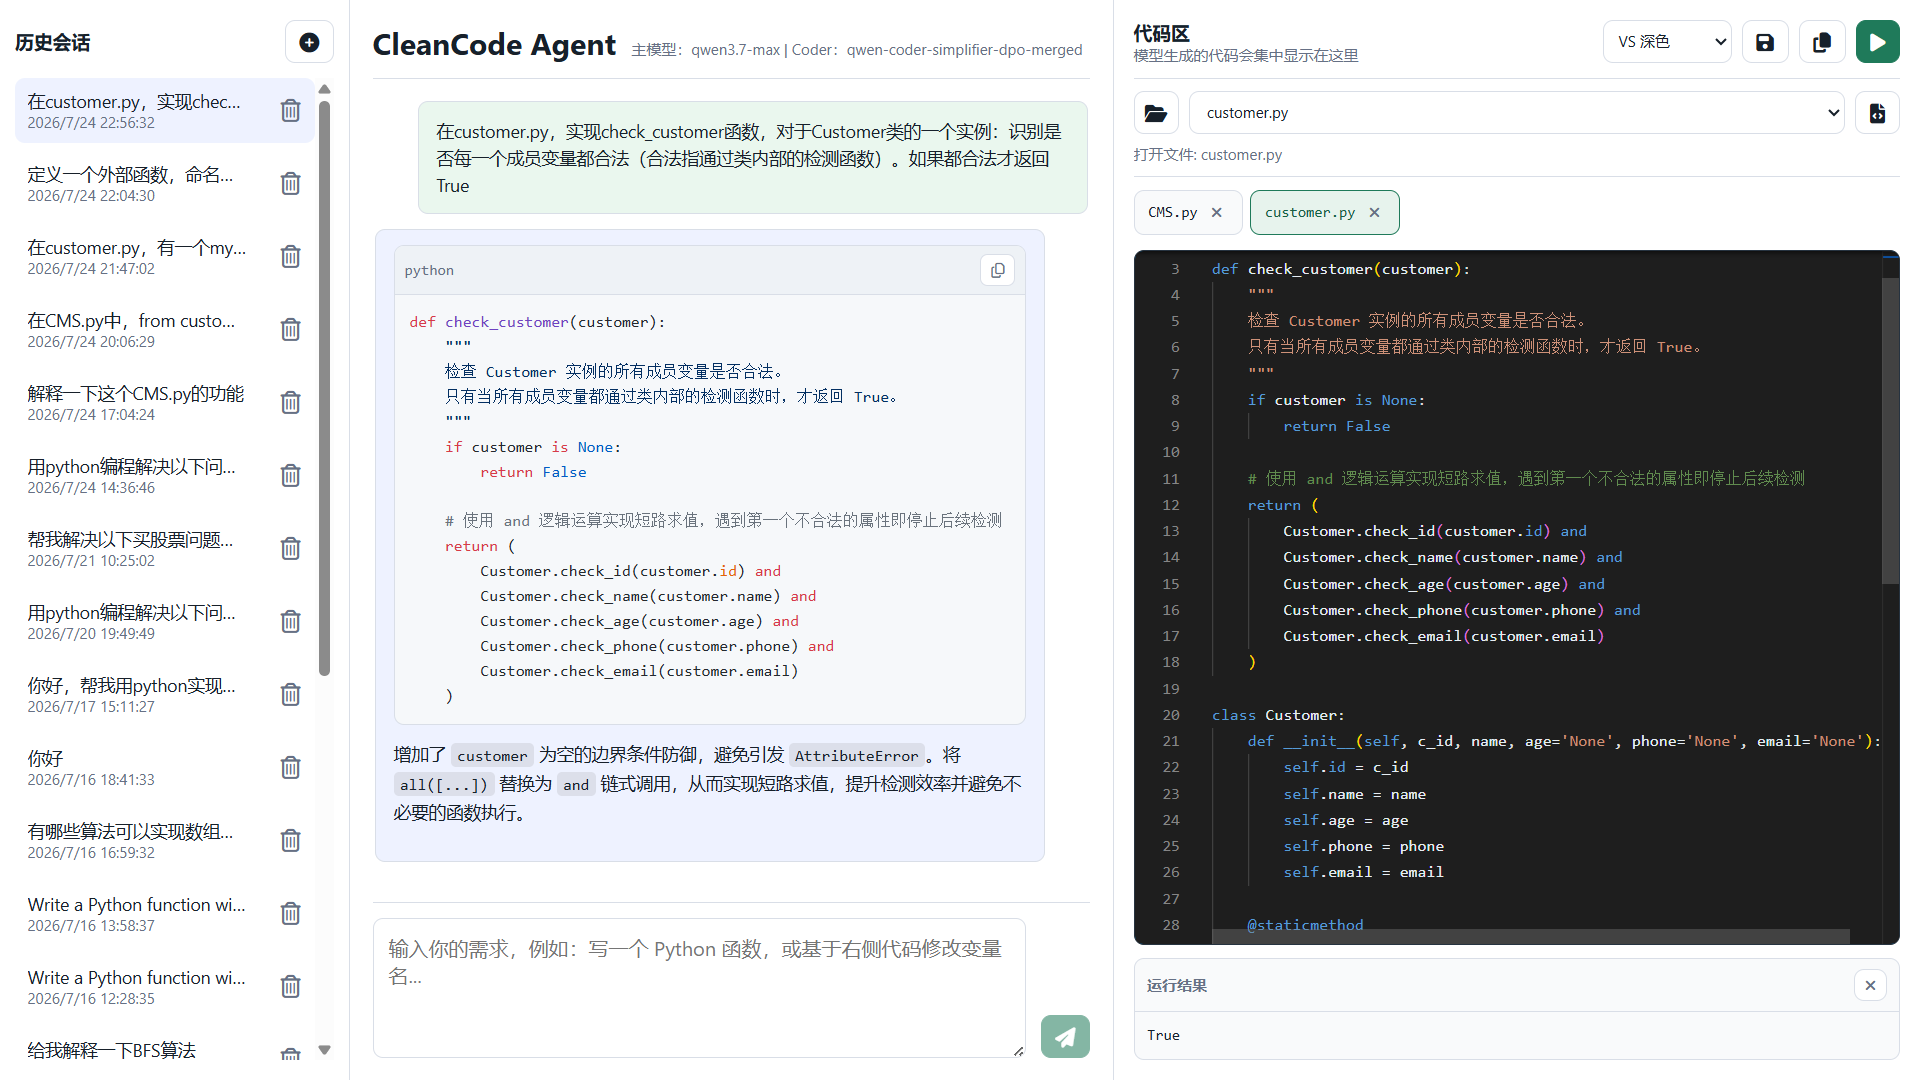
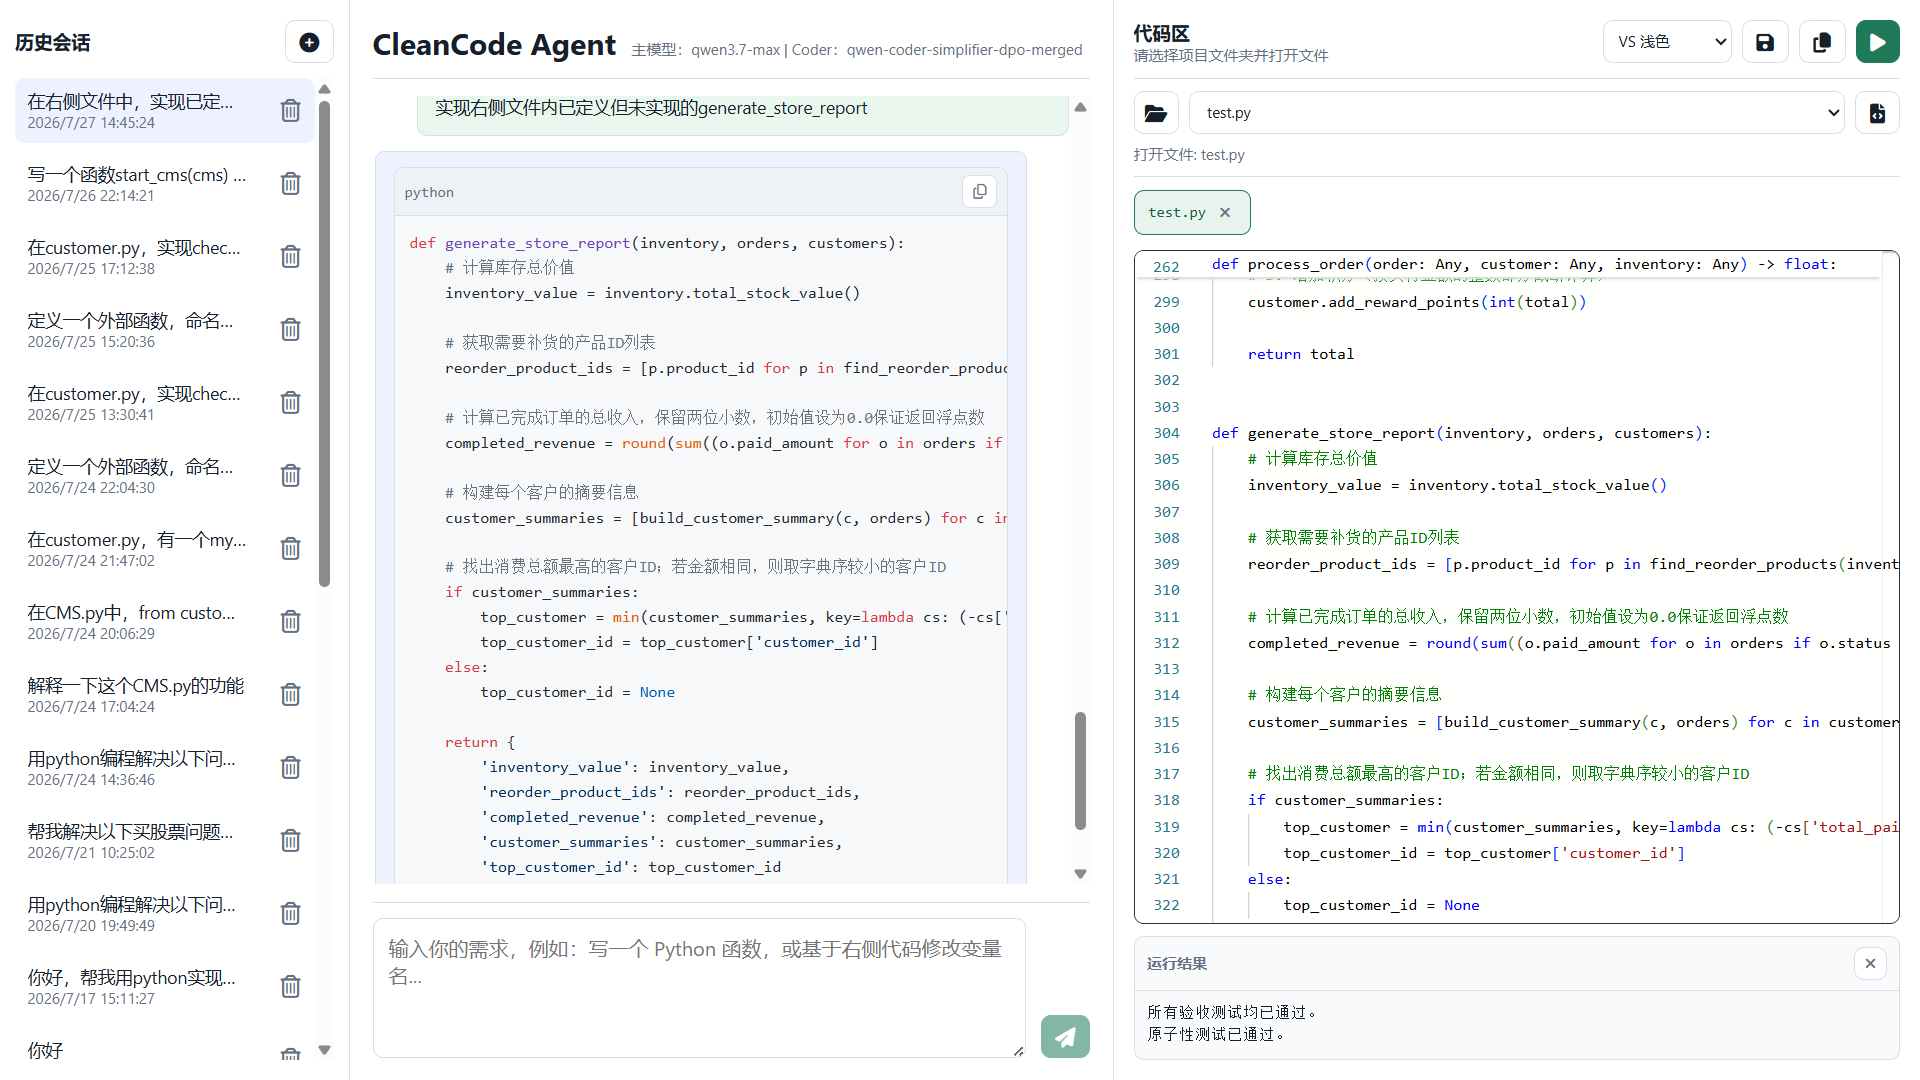
修复代码检索工具bug

diff --git a/app/tools/agent_search_tool.py b/app/tools/agent_search_tool.py
@@ -1,4 +1,4 @@
-from __future__ import annotations
+from __future__ import annotations
 
 from dataclasses import dataclass
 import json
@@ -6,7 +6,7 @@ import re
 from typing import Any
 
 from langchain_core.tools import StructuredTool
-from pydantic import BaseModel, Field
+from pydantic import BaseModel, Field, field_validator
 
 from ..schemas import WorkspaceState
 from ..context.current_file_search import format_workspace_tool_result, search_workspace
@@ -29,6 +29,24 @@ class SearchWorkspaceArgs(BaseModel):
     symbols: list[str] | None = Field(default=None, description="Optional Python function or class names to prioritize.")
     max_chars: int = Field(default=MAX_TOOL_RESULT_CHARS, ge=1000, le=MAX_TOOL_RESULT_CHARS)
     max_files: int = Field(default=8, ge=1, le=20)
+
+    @field_validator("symbols", mode="before")
+    @classmethod
+    def parse_symbols(cls, value: Any) -> list[str] | None:
+        if value is None or isinstance(value, list):
+            return value
+        if isinstance(value, str):
+            text = value.strip()
+            if not text:
+                return None
+            try:
+                parsed = json.loads(text)
+            except json.JSONDecodeError:
+                parsed = None
+            if isinstance(parsed, list):
+                return [str(item) for item in parsed]
+            return re.findall(r"[A-Za-z_][A-Za-z0-9_]*", text)
+        return [str(value)]
 
 
 @dataclass(frozen=True)
@@ -154,7 +172,15 @@ def _normalise_symbols(symbol: str, symbols: Any) -> list[str]:
     if isinstance(symbols, list):
         raw_values.extend(symbols)
     elif isinstance(symbols, str):
-        raw_values.append(symbols)
+        text = symbols.strip()
+        try:
+            parsed = json.loads(text)
+        except json.JSONDecodeError:
+            parsed = None
+        if isinstance(parsed, list):
+            raw_values.extend(parsed)
+        else:
+            raw_values.append(symbols)
 
     for raw in raw_values:
         for name in re.findall(r"[A-Za-z_][A-Za-z0-9_]*", str(raw or "")):

diff --git a/app/services/service_configs.py b/app/services/service_configs.py
@@ -119,6 +119,9 @@ WORKSPACE_CONTEXT_PROMPT = (
 
 PLANNER_USER_PROMPT_TEMPLATE = (
     "请输出给 coder 的简短实现计划，不要写代码，最多 5 条。\n"
+    "要求：\n"
+    "要明确目标函数名、参数、返回值含义。\n"
+    "如果当前文件检索结果中有类/函数定义，总结其中与实现相关的字段、方法、调用方式。\n"
     "意图：{intent}\n"
     "槽位：{slots}\n"
     "用户：{latest_user}\n"
